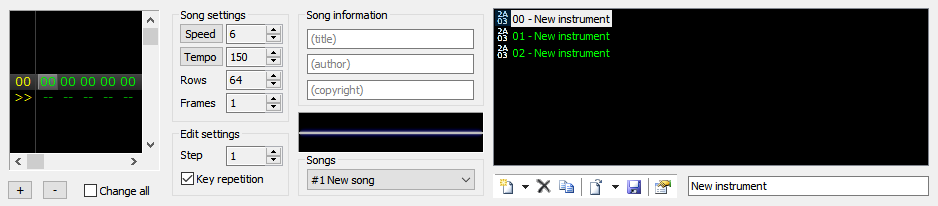
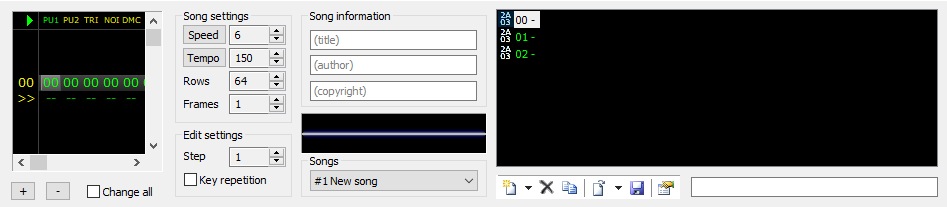
Update control panel

diff --git a/hlp/control_panel.htm b/hlp/control_panel.htm
@@ -5,100 +5,133 @@
 <link href="style.css" rel="stylesheet" type="text/css" />
 </HEAD>
 <BODY>
- 
+
     <span class="topic">Control panel</span><hr />
-    
+
     <p class="text">The main window control panel</p>
 
-    <img id="IMG1" src="img/toolbar2.png" /><br />
-    
+    <img id="img" src="img/toolbar2.png" alt="Screenshot of the control panel."><br />
+
     <p class="bold">Frame editor</p>
-    
+
+    <img id="img" src="img/frame_editor.png" alt="Screenshot of frame editor."><br />
+
     <p class="text">
-        The first part is the frame editor (also known as order editor), located to 
-        the left.
+        The first part is the frame editor (also known as order editor), located to
+        the left. This may be adjusted to be next to the Pattern editor via the <a href="menu_view.htm">View menu</a> settings.</p>
+    <p class="text">
         A frame is a set of patterns for all channels, where each
         channel is represented by a pattern number individual from all other channels. There
         are 128 available pattern slots for each channel, and the patterns aren't shared across
         the channels. Up to 128 frames can be used.<br /></p>
-    
+
     <p class="text">
-        To change pattern, press &quot;<b>+</b>&quot; or &quot;<b>-</b>&quot; buttons or &quot;<b>+</b>&quot; &amp; 
+        To change pattern, press &quot;<b>+</b>&quot; or &quot;<b>-</b>&quot; buttons or &quot;<b>+</b>&quot; &amp;
         &quot;<b>-</b>&quot; keys in
-        the pattern editor. If <b>"change all"</b> is checked, all channels will change 
-        instead of just the selected one. Use <b>Ctrl+Right</b> and <b>Ctrl+Left</b> to 
-        step through frames from the pattern editor. <b>Double click</b> or press <b>F3</b> 
-        to enable edit mode for the frame editor, where you can enter pattern values 
+        the pattern editor. If <b>"change all"</b> is checked, all channels will change
+        instead of just the selected one. Use <b>Ctrl+Right</b> and <b>Ctrl+Left</b> to
+        step through frames from the pattern editor. <b>Double click</b> or press <b>F3</b>
+        to enable edit mode for the frame editor, where you can enter pattern values
         manually.</p>
+
+	<p class="text">
+		To expand the channel view, click on the right arrow on the top left corner.
+		To minimize the channel view, click on the left arrow on the top left corner.</p>
+
     <p class="text">
-        The frame editor also supports mouse selection and drag &amp; drop operations. Use         <b>Shift+drag</b> to copy pattern numbers to new frames and <b>Ctrl+drag</b> to 
+        The frame editor also supports mouse selection and drag &amp; drop operations. Use <b>Shift+drag</b> to copy pattern numbers to new frames and <b>Ctrl+drag</b> to
         copy patterns to new frames.<br /></p>
-    
+
     <h2 class="bold">Song settings &amp; edit settings</h2>
-    
+
+    <img id="img" src="img/song_and_edit_settings.png" alt="Screenshot of song settings and edit settings."><br />
+
     <p class="text">
         Song settings is default play speed &amp; tempo, number
         of rows and frames in the song. Double-click any box to enter a value manually.</p>
-        
+
     <p class="text">
-        Speed and tempo can also be changed by using pattern command <b>Fxx</b>. The real BPM
-        tempo is calculated by using the formula</p>
-    
+        Click on the <b>Speed</b> button to toggle between Speed and Grooves.</p>
+
+    <p class="text">
+        Click on the <b>Tempo</b> button to toggle between Tempo and Fixed.
+		Using Fixed mode tempo will force the tempo to sync with the engine tick rate <i>(2.5 * Engine tick speed)</i> and
+		<a href="effect_list.htm#Speed"><b>Fxx</b></a> will now only set the speed.</p>
+
+    <p class="text">
+        Speed and tempo can also be changed by using pattern command <a href="effect_list.htm#Speed"><b>Fxx</b></a>.</p>
+
+	<p class="text">
+		The resulting BPM tempo (when Tempo is not fixed) is calculated by using the formula</p>
+
     <p class="text"><i>
         BPM = (6 * Tempo) / Speed</i></p>
-        
+
     <p class="text">
         which means that the tempo box is correct at speed of 6.</p>
-        
+
+	<p class="text">
+		The resulting BPM tempo (when Tempo is fixed) is calculated by using the formula</p>
+
+    <p class="text"><i>
+        BPM = (15 * Engine tick speed) / Speed</i></p>
+
+	<p class="text">
+		When Grooves are chosen instead of speed, the resulting BPM may vary depending on the
+		current speed sequence of the groove.</p>
+
+    <p class="text">
+        The engine tick rate for the song is 60 or
+        50 Hertz (when using default NTSC/PAL settings), and this is used to
+        calculate the average tempo of the song. This means that some rows may play
+        slightly longer or shorter than others,
+        something that might be audible. To avoid this, leave the
+        tempo setting at 150 (125 for PAL!) and use only the speed setting to change BPM
+        to ensure that all rows get the same duration, or click on the <b>Tempo</b> button to
+		force the tempo to sync with the engine tick rate.</p>
+    <p class="text">
+        Also be aware that the maximum supported BPM is 900 for NTSC and 750 for PAL
+        (equal to speed 1 at tempo 150 / 125), going above that will not function
+        properly!</p>
+
     <table class="noteFrame" cellpadding="5px">
         <tr>
             <td>
                 <p class="text">
-                    <b>Note:</b> 
-                    The speed & tempo split-point is currently set to 32, but files created in older versions of the tracker 
-                    will have this point set to 20. This was changed to give a access to a larger speed range since the speed 
-                    command sometimes is more useful than the tempo command. 
-                    
-                    It is possible to toggle this split-point with the command <i>Ctrl+Shift+S</i> 
+                    <b>Note:</b>
+                    The speed & tempo split-point is currently set to 32, but files created in older versions of the tracker
+                    will have this point set to 20. This was changed to give a access to a larger speed range since the speed
+                    command sometimes is more useful than the tempo command.
+
+                    It is possible to toggle this split-point with the command <i>Ctrl+Shift+S</i>
                     if you wish to change it in the current module.
                 </p>
             </td>
         </tr>
     </table>
-        
+
     <p class="text">
-        The time base for the song is 60 or
-        50 ticks per second (when using default NTSC/PAL settings), and this is used to 
-        calculate the average tempo of the song. This means that some rows may play 
-        slightly longer or shorter than others, 
-        something that might be audible. To avoid this, leave the 
-        tempo setting at 150 (125 for PAL!) and use only the speed setting to change BPM 
-        to ensure that all rows get the same duration.</p>
-    <p class="text">
-        Also be aware that the maximum supported BPM is 900 for NTSC and 750 for PAL 
-        (equal to speed 1 at tempo 150 / 125), going above that will not function 
-        properly!</p>
-        
-    <p class="text">
-        The step setting changes the step behaviour when moving the cursor in the 
+        The step setting changes the step behaviour when moving the cursor in the
         pattern editor. Key repetition enables key repeat behaviour.</p>
-        
+
     <p class="bold">
         Song information &amp; instrument list</p>
-        
+
+    <img id="img" src="img/song_information_and_instrument_list.png" alt="Screenshot of song settings and edit settings."><br />
+
     <p class="text">
         Song information text fields are for <b>name</b>, <b>artist</b> and <b>copyright</b>. These strings are stored
         in NSFs (and also available in the NSF export dialog). The song
-        list selects a song in multi-song files. 
+        list selects a song in multi-song files.
         The big list to the right is the instrument box, and
         the small toolbar is used to create,
-        delete, open, save and edit settings for instrument and the text box is to name 
+        delete, open, save and edit settings for instrument and the text box is to name
         instruments.</p>
     <p class="text">
         The instrument list supports drag and drop operation for reordering instruments.</p>
-    
+
     <hr />
     <span class="footer">Back to <a href="interface.htm">interface</a> &middot; <a href="main_index.htm">main index</a></span>
-    
+
 </BODY>
 </HTML>
